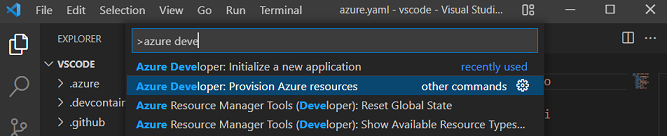
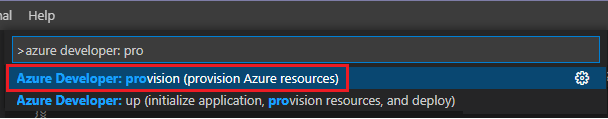
run/debug article edits 2

diff --git a/articles/azure-dev-cli/how-to-use-vscode-extension-to-debug-locally.md b/articles/azure-dev-cli/how-to-use-vscode-extension-to-debug-locally.md
@@ -22,7 +22,7 @@ This article assumes you've installed the azd  and created an app from an azd te
 
 1. Open Visual Studio Code
 
-1. From the Visual Studio Code **View** menu, select **Extensions**.
+1. From the **View** menu, select **Extensions**.
 
 1. At the top right of the **EXTENSIONS** pane, select **...**.
 
@@ -34,44 +34,42 @@ This article assumes you've installed the azd  and created an app from an azd te
 
 1. Create and open a new folder in Visual Studio Code.
 
-1. From the Visual Studio Code menu, select **Command Palette...**.
+1. From the **View** menu, select **Command Palette...**.
 
 1. Type and pick `Azure Developer: init`.
 
-    !["Visual Studio Code extension option to initialize a new application"](media/how-to-use-vscode-extension-to-debug-locally/cmd-init.png)
+    !["Visual Studio Code azd extension option to initialize a new app"](media/how-to-use-vscode-extension-to-debug-locally/cmd-init.png)
 
-1. Select one of templates.
-    - Provide environment name, location and select the Azure subscription when prompted
+1. Select one of templates and enter the requested values.
 
 The following files are included in the .vscode folder:
 
-- `launch.json` includes debug configurations so you can **Debug Web** or **Debug API**. You see the same options in **Run and Debug** (Ctrl-Shift-D).
-- `tasks.json` includes configurations so you can start the web and/or the API servers. You see the same options if you go to the Command Palette and run **Task: run task**.
-
-> [!NOTE]
-> Learn more about [Debugging](https://code.visualstudio.com/docs/editor/debugging) and [Tasks](https://code.visualstudio.com/docs/editor/tasks) in VS Code.
+- `launch.json`: Defines the debug configurations such as **Debug Web** and **Debug API**. to see the debug configuration options, select **Run** from the **View** menu. The available debug configurations are listed at the top of the pane. To learn more about debugging in Visual Studio Code, see [Debugging](https://code.visualstudio.com/docs/editor/debugging).
+- `tasks.json`: Defines the configurations to start the web or API server. To see these configuration options, open the Command Palette and run **Task: run task**. To learn more about Visual Studio Code Tasks, see [Integrate with External Tools via Tasks](https://code.visualstudio.com/docs/editor/tasks).
 
 ## Provision the Azure resources
 
-Before you start debugging, make sure you provision the necessary Azure resources. All infrastructure is running in the cloud and must be provisioned for the application run to succeed. 
+Before you start debugging, provision the necessary Azure resources.
 
-1. Open Command Palette (Ctrl+Shift+P)
-2. Type or pick **Azure Developer: Provision Azure resources**. (You can also right-click `azure.yaml` to kick **Provision Azure Resources** off.)
+1. Open Command Palette.
 
-    !["Provision"](media/how-to-use-vscode-extension-to-debug-locally/cmd-provision.png)
+1. Enter **Azure Developer: provision Azure resources**.
 
-## Debug the application
+    !["Visual Studio Code azd extension option to provision the Azure resources for a new application"](media/how-to-use-vscode-extension-to-debug-locally/cmd-provision.png)
 
-Once provision is complete, you can run and debug the application. Let's walk through two scenarios.
+## Debug an API
 
-### Scenario 1 - Debug API
+The debug configuration **Debug API** automatically runs the API server and attaches the debugger. To test this pattern, do the following steps:
 
-**Debug API** is configured to run the API server and attach the debugger. So you don't need to run the task to start the API server.
+1. From your project's `src/api/src/routes` directory, open `lists.ts`. 
 
-1. Set a breakpoint. Open `lists.ts` in `src > api > src > routes`. Set a breakpoint at say line 16. 
-1. In the activity bar, select Run and Debug (Ctrl-Shift-D) and then "Debug API"
-!["Debug API"](media/how-to-use-vscode-extension-to-debug-locally/debug-api.png)
-1. In your preferred terminal shell, type: >curl http://localhost:3100/lists
+1. Set a breakpoint at line 16.
+
+1. From the Activity Bar **View** menu, select the **Debug API** debug configuration.
+    !["Setting the debug configuration to Debug API"](media/how-to-use-vscode-extension-to-debug-locally/debug-api.png)
+
+1. In your preferred terminal shell, enter the following command: `curl http://localhost:3100/lists`
+
 1. The breakpoint is hit, hit F5, an empty list is returned.
 
 ### Scenario 2 - Debug React Frontend Application
